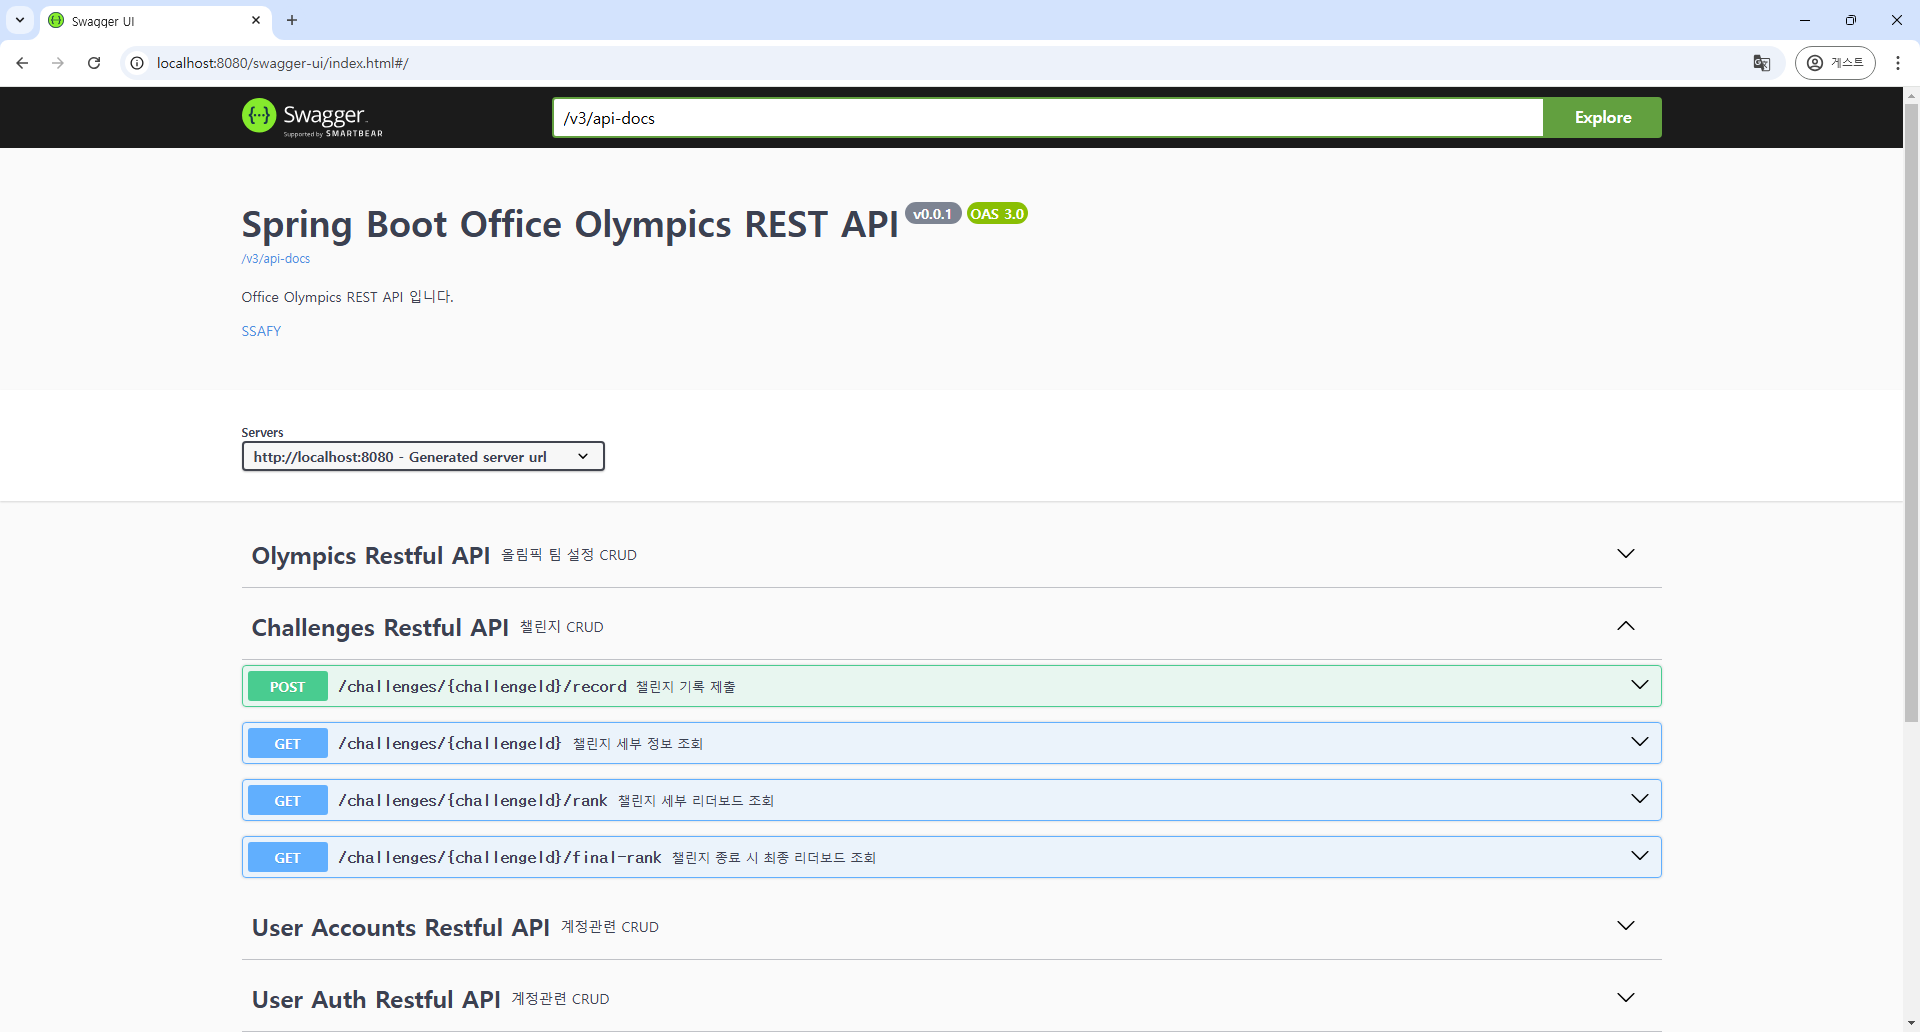
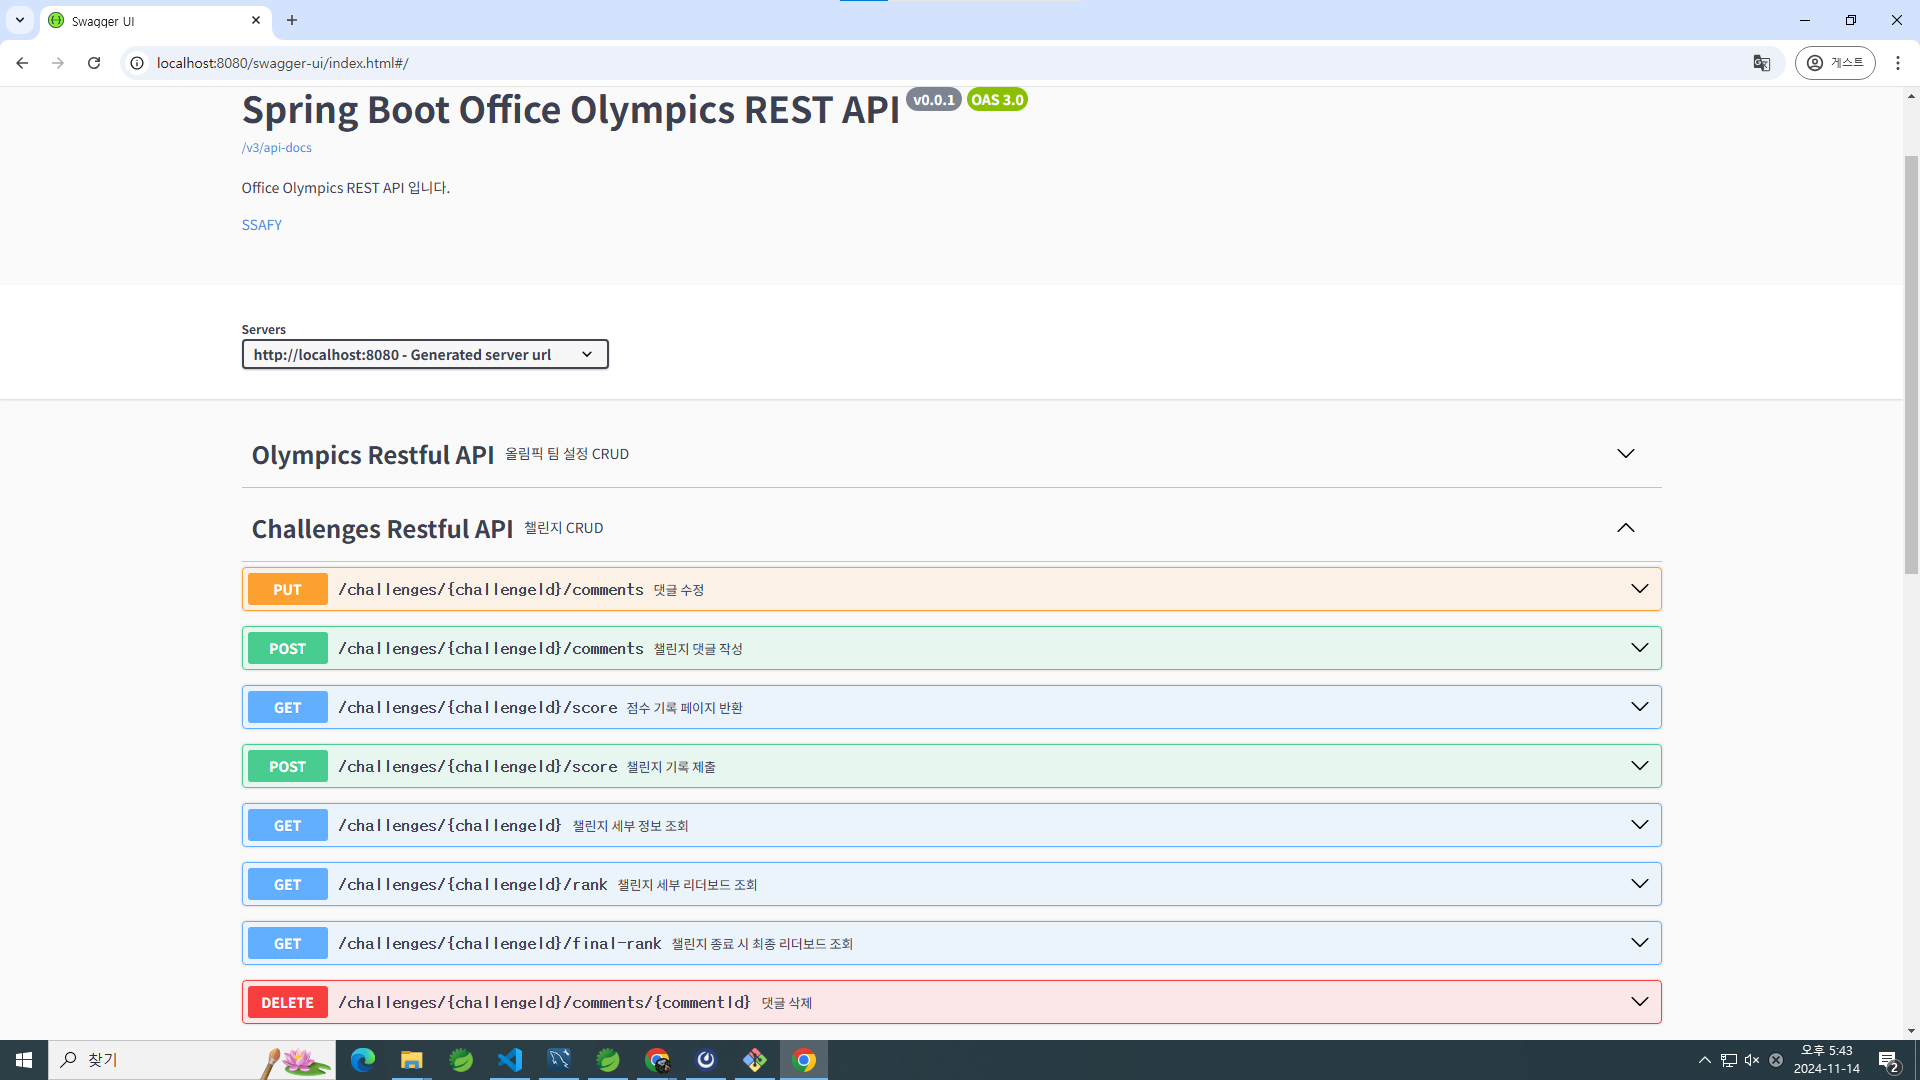
Docs: Comments 관련 로직 구현 리뷰 작성
Comments 기능에 대한 로직 구현 내용을 검토하고 리뷰를 작성했습니다.

로직에 대한 이해를 돕고 향후 개선 사항을 기록하기 위한 문서화 작업입니다.

diff --git a/backend_summaries/Comment.md b/backend_summaries/Comment.md
@@ -1,0 +1,78 @@
+# Comments 관련 로직 구현 리뷰
+
+## 목차
+- [주요 코드 구조 및 로직](#주요-코드-구조-및-로직)
+- [작업 내역](#작업-내역)
+- [각 파일의 내용](#각-파일의-내용)
+
+## 주요 코드 구조 및 로직
+
+### Swagger API 이미지
+
+![be_challenges.png](../media/backend/be_challenges.png)
+
+- **댓글 관리**: `ChallengeController`와 `CommentsService`를 통해 챌린지별 댓글 작성, 조회, 수정, 삭제 기능을 구현했습니다.
+- **데이터베이스 연동**: `CommentsDao`와 `CommentsMapper.xml`을 이용해 MyBatis로 댓글 데이터 조작을 수행합니다.
+
+## 작업 내역
+
+- `ChallengeController.java`
+- `CommentsDao.java`
+- `CommentsMapper.xml`
+- `Comments.java` (DTO)
+- `CommentsService.java`
+- `CommentsServiceImpl.java`
+
+## 각 파일의 내용
+
+- controller    
+    `ChallengeController`는 챌린지의 댓글 작성, 조회, 수정, 삭제 기능을 처리합니다.
+
+    - **댓글 조회 (GET /challenges/{challengeId}/comments)**  
+        특정 `challengeId`에 대한 댓글 목록을 반환합니다.
+
+    - **댓글 작성 (POST /challenges/{challengeId}/comments)**  
+        사용자가 댓글을 작성하며, `userId`와 `commentText`를 JSON 형식으로 전달합니다.
+
+    - **댓글 수정 (PUT /challenges/{challengeId}/comments/{commentId})**  
+        특정 `commentId`의 댓글 내용을 수정합니다.
+
+    - **댓글 삭제 (DELETE /challenges/{challengeId}/comments/{commentId})**  
+        특정 `commentId`의 댓글을 삭제합니다.
+
+- service   
+    `CommentsServiceImpl` 파일에서는 댓글 조회, 작성, 수정, 삭제 로직이 구현되어 있습니다.
+
+    - **댓글 조회 로직**  
+        - `getComments` 메서드를 통해 `challengeId` 기반의 댓글 목록을 반환합니다.
+
+    - **댓글 작성 로직**  
+        - `insertComment` 메서드를 통해 댓글을 데이터베이스에 추가합니다.
+
+    - **댓글 수정 로직**  
+        - `modifyComment` 메서드를 통해 특정 댓글의 내용을 갱신합니다.
+
+    - **댓글 삭제 로직**  
+        - `deleteComment` 메서드를 통해 특정 댓글을 삭제합니다.
+
+- dao   
+    `CommentsDao`는 댓글과 관련된 데이터베이스 연산을 정의하는 인터페이스입니다.
+
+    - **주요 메서드**:
+        - `getComments`: 특정 챌린지의 댓글 목록을 반환
+        - `findUserComments`: 특정 `challengeId`에 사용자가 작성한 댓글 여부 확인
+        - `insertComment`: 댓글을 추가
+        - `modifyComment`: 댓글 내용을 수정
+        - `deleteComment`: 댓글을 삭제
+
+- mapper   
+    `CommentsMapper.xml` 파일은 MyBatis SQL 매핑 파일로, 댓글 조회, 작성, 수정, 삭제 쿼리를 포함합니다.
+
+    - **댓글 조회 쿼리**: `getComments`는 `challengeId` 기반으로 댓글 목록을 반환합니다.
+    - **작성한 댓글 확인 쿼리**: `findUserComments`는 사용자가 작성한 댓글 여부를 확인합니다.
+    - **댓글 추가 쿼리**: `insertComment`는 새로운 댓글을 삽입합니다.
+    - **댓글 수정 쿼리**: `modifyComment`는 특정 댓글의 내용을 갱신합니다.
+    - **댓글 삭제 쿼리**: `deleteComment`는 특정 댓글을 삭제합니다.
+
+- dto   
+    - **Comments.java**: `commentId`, `userId`, `challengeId`, `commentText`, `regDate`, `updateDate`를 포함하여 댓글 정보를 나타냅니다.
